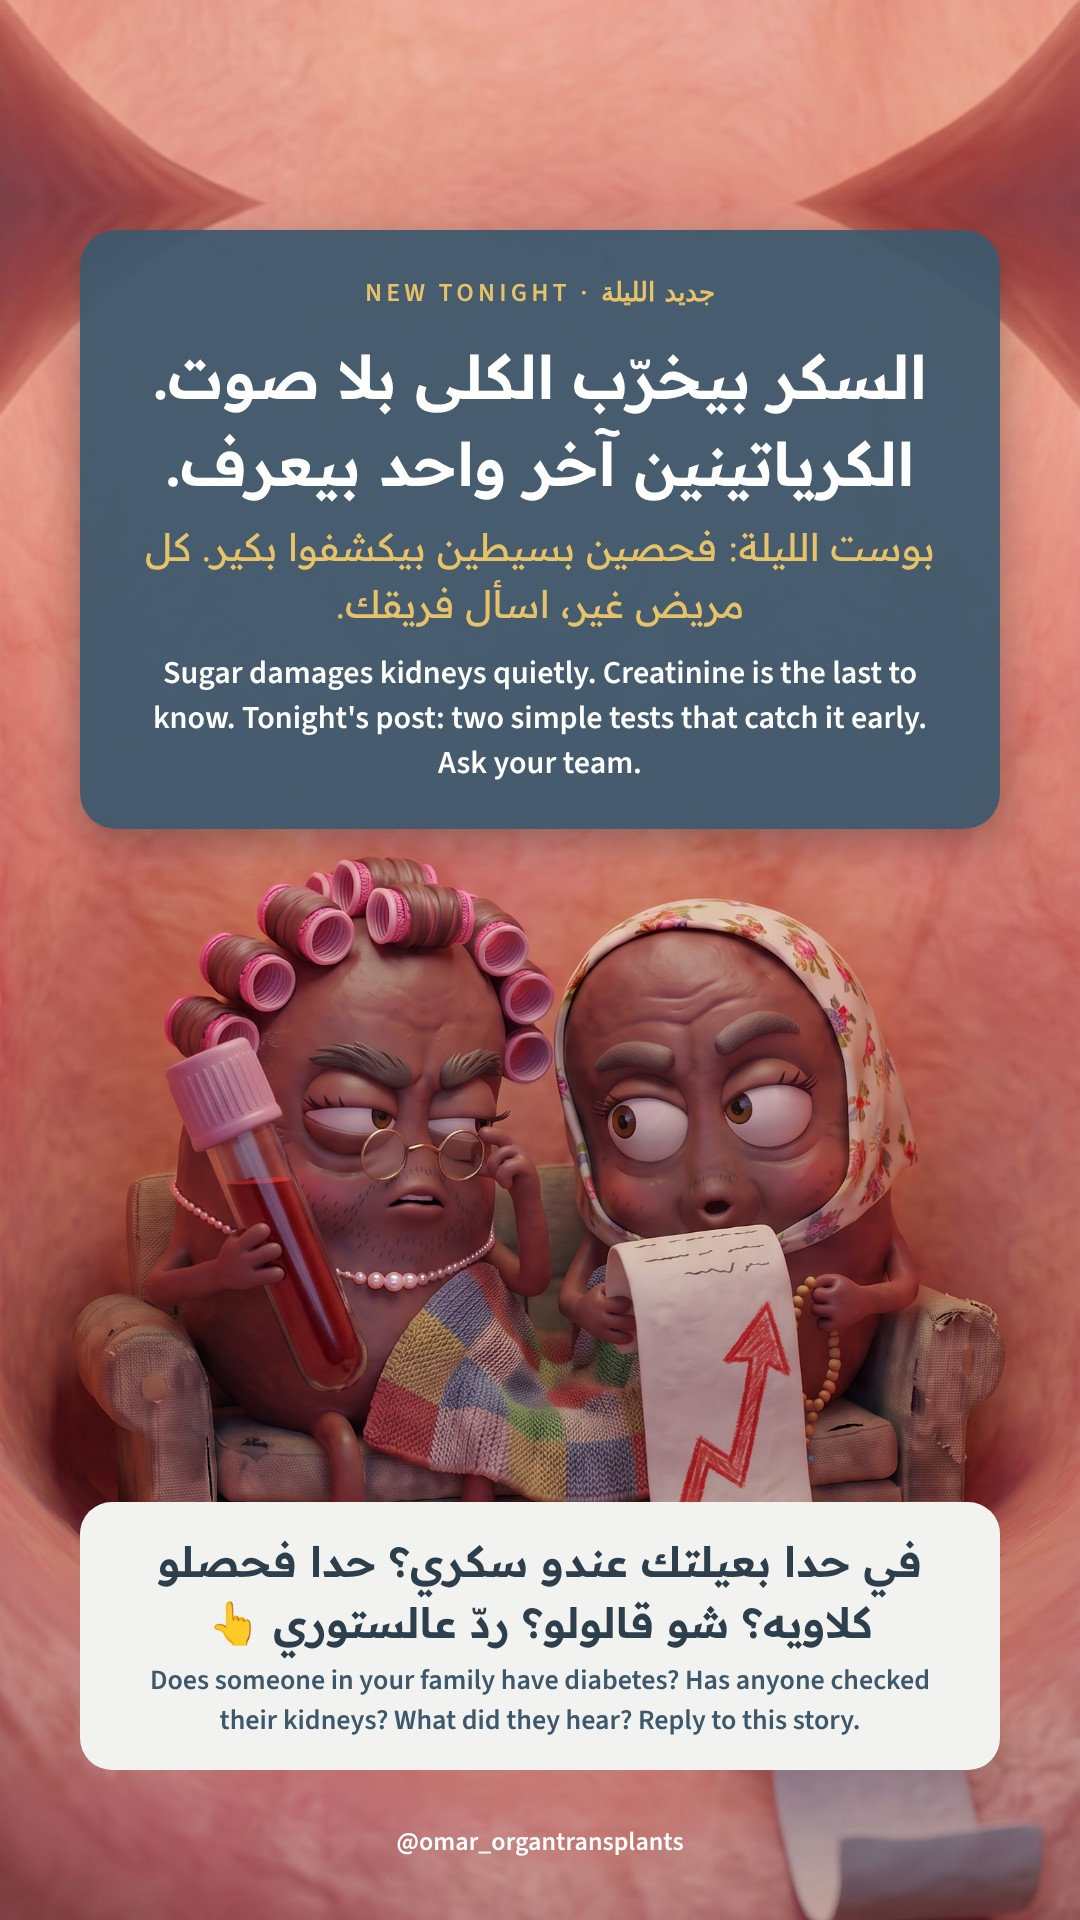
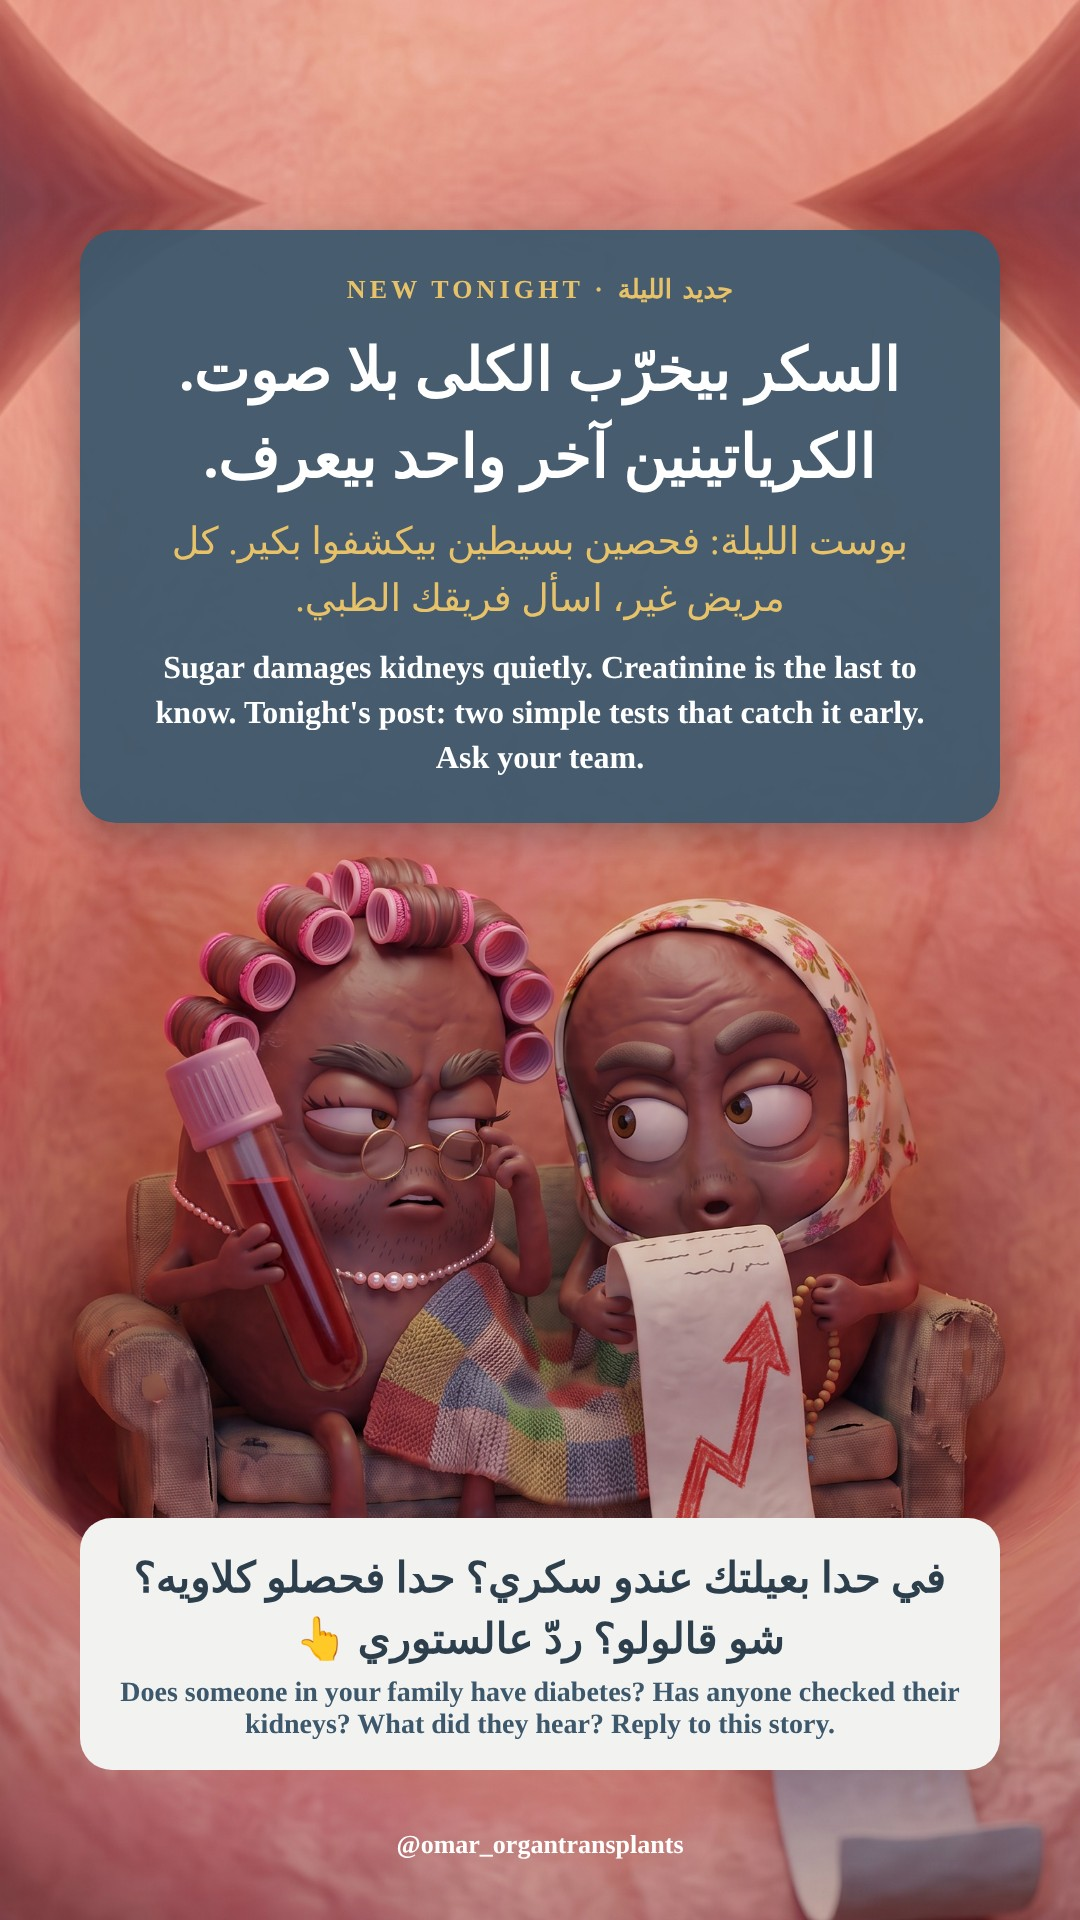
Stories 12-18 Nov: فريق طبي / فرق طبية wording (Omar, 11 Nov), re-rendered 8 stories + rule in tools/README
Claude-Session: https://claude.ai/code/session_015KYtjJJUDackNT4dw8s1p3

Changed region(s): [[0.0917, 0.125, 0.9167, 0.4375], [0.0611, 0.7812, 0.9167, 0.9062], [0.3667, 0.9375, 0.6417, 0.9688]]

diff --git a/tools/README.md b/tools/README.md
@@ -19,4 +19,4 @@
 - AI16, AI17, AI20 moved (Omar, 4 Nov) to after the ElevenLabs renewal on 23 Nov, saving credits but keeping the Mon/Wed/Fri rhythm: AI20 (S1 Ep1 Freedom) Wed 25 Nov, AI16 (pig kidneys) Fri 27 Nov, AI17 (You asked) Mon 30 Nov. Credit rules still apply (approved script first, one image variation 1K 9:16, one voice take, reuse scenes).
 - BACKUPS (Omar, 4 Nov): every deliverable that is a file (PDF guides, cheat sheets, final videos you build, etc.) must also be backed up to Drive, not only sent in chat. Commit it to the repo, then upload it with Make scenario 8366979 (now "BTBTP – Upload files to Drive (stories, guides)"): each item in module 1's JSON takes url, name and an optional folder id (default = BTBTP AI stories folder). Guides go to "BTBTP Guides (backup)" 1gSx6AVwqZNcZcWXZ7s9n-pE6IAUIZCto. Activate, run, check Drive, deactivate. Blood test guide v1 = guides/BTBTP_Blood_Test_Guide_v1.pdf.
 - Make uploads: use raw URLs pinned to the commit SHA (https://raw.githubusercontent.com/omarchebbo97-coder/btbtp-media/<sha>/path), not ?v=N. raw.githubusercontent caches by path for a few minutes and ignores the query string, so ?v=N can upload a stale file (happened 4 Nov). Check the Drive file size matches the local file.
-- Wording (Omar, 11 Nov): when Arabic text says "teams" in the medical sense, write "فرق طبية", never bare "فرق" (e.g. "في فرق طبية بتسكّرها وفرق طبية بتتركها"). Applies to stories, carousels, captions and scripts from now on.
+- Wording (Omar, 11 Nov): in Arabic, a medical team is always "فريق طبي" (singular, e.g. "اسأل فريقك الطبي", "لفريقك الطبي", "فريقكن الطبي") and "فرق طبية" (plural, e.g. "في فرق طبية بتسكّرها وفرق طبية بتتركها"). Never bare "فريقك" / "فرق". Applies to stories, carousels, captions and scripts from now on.
